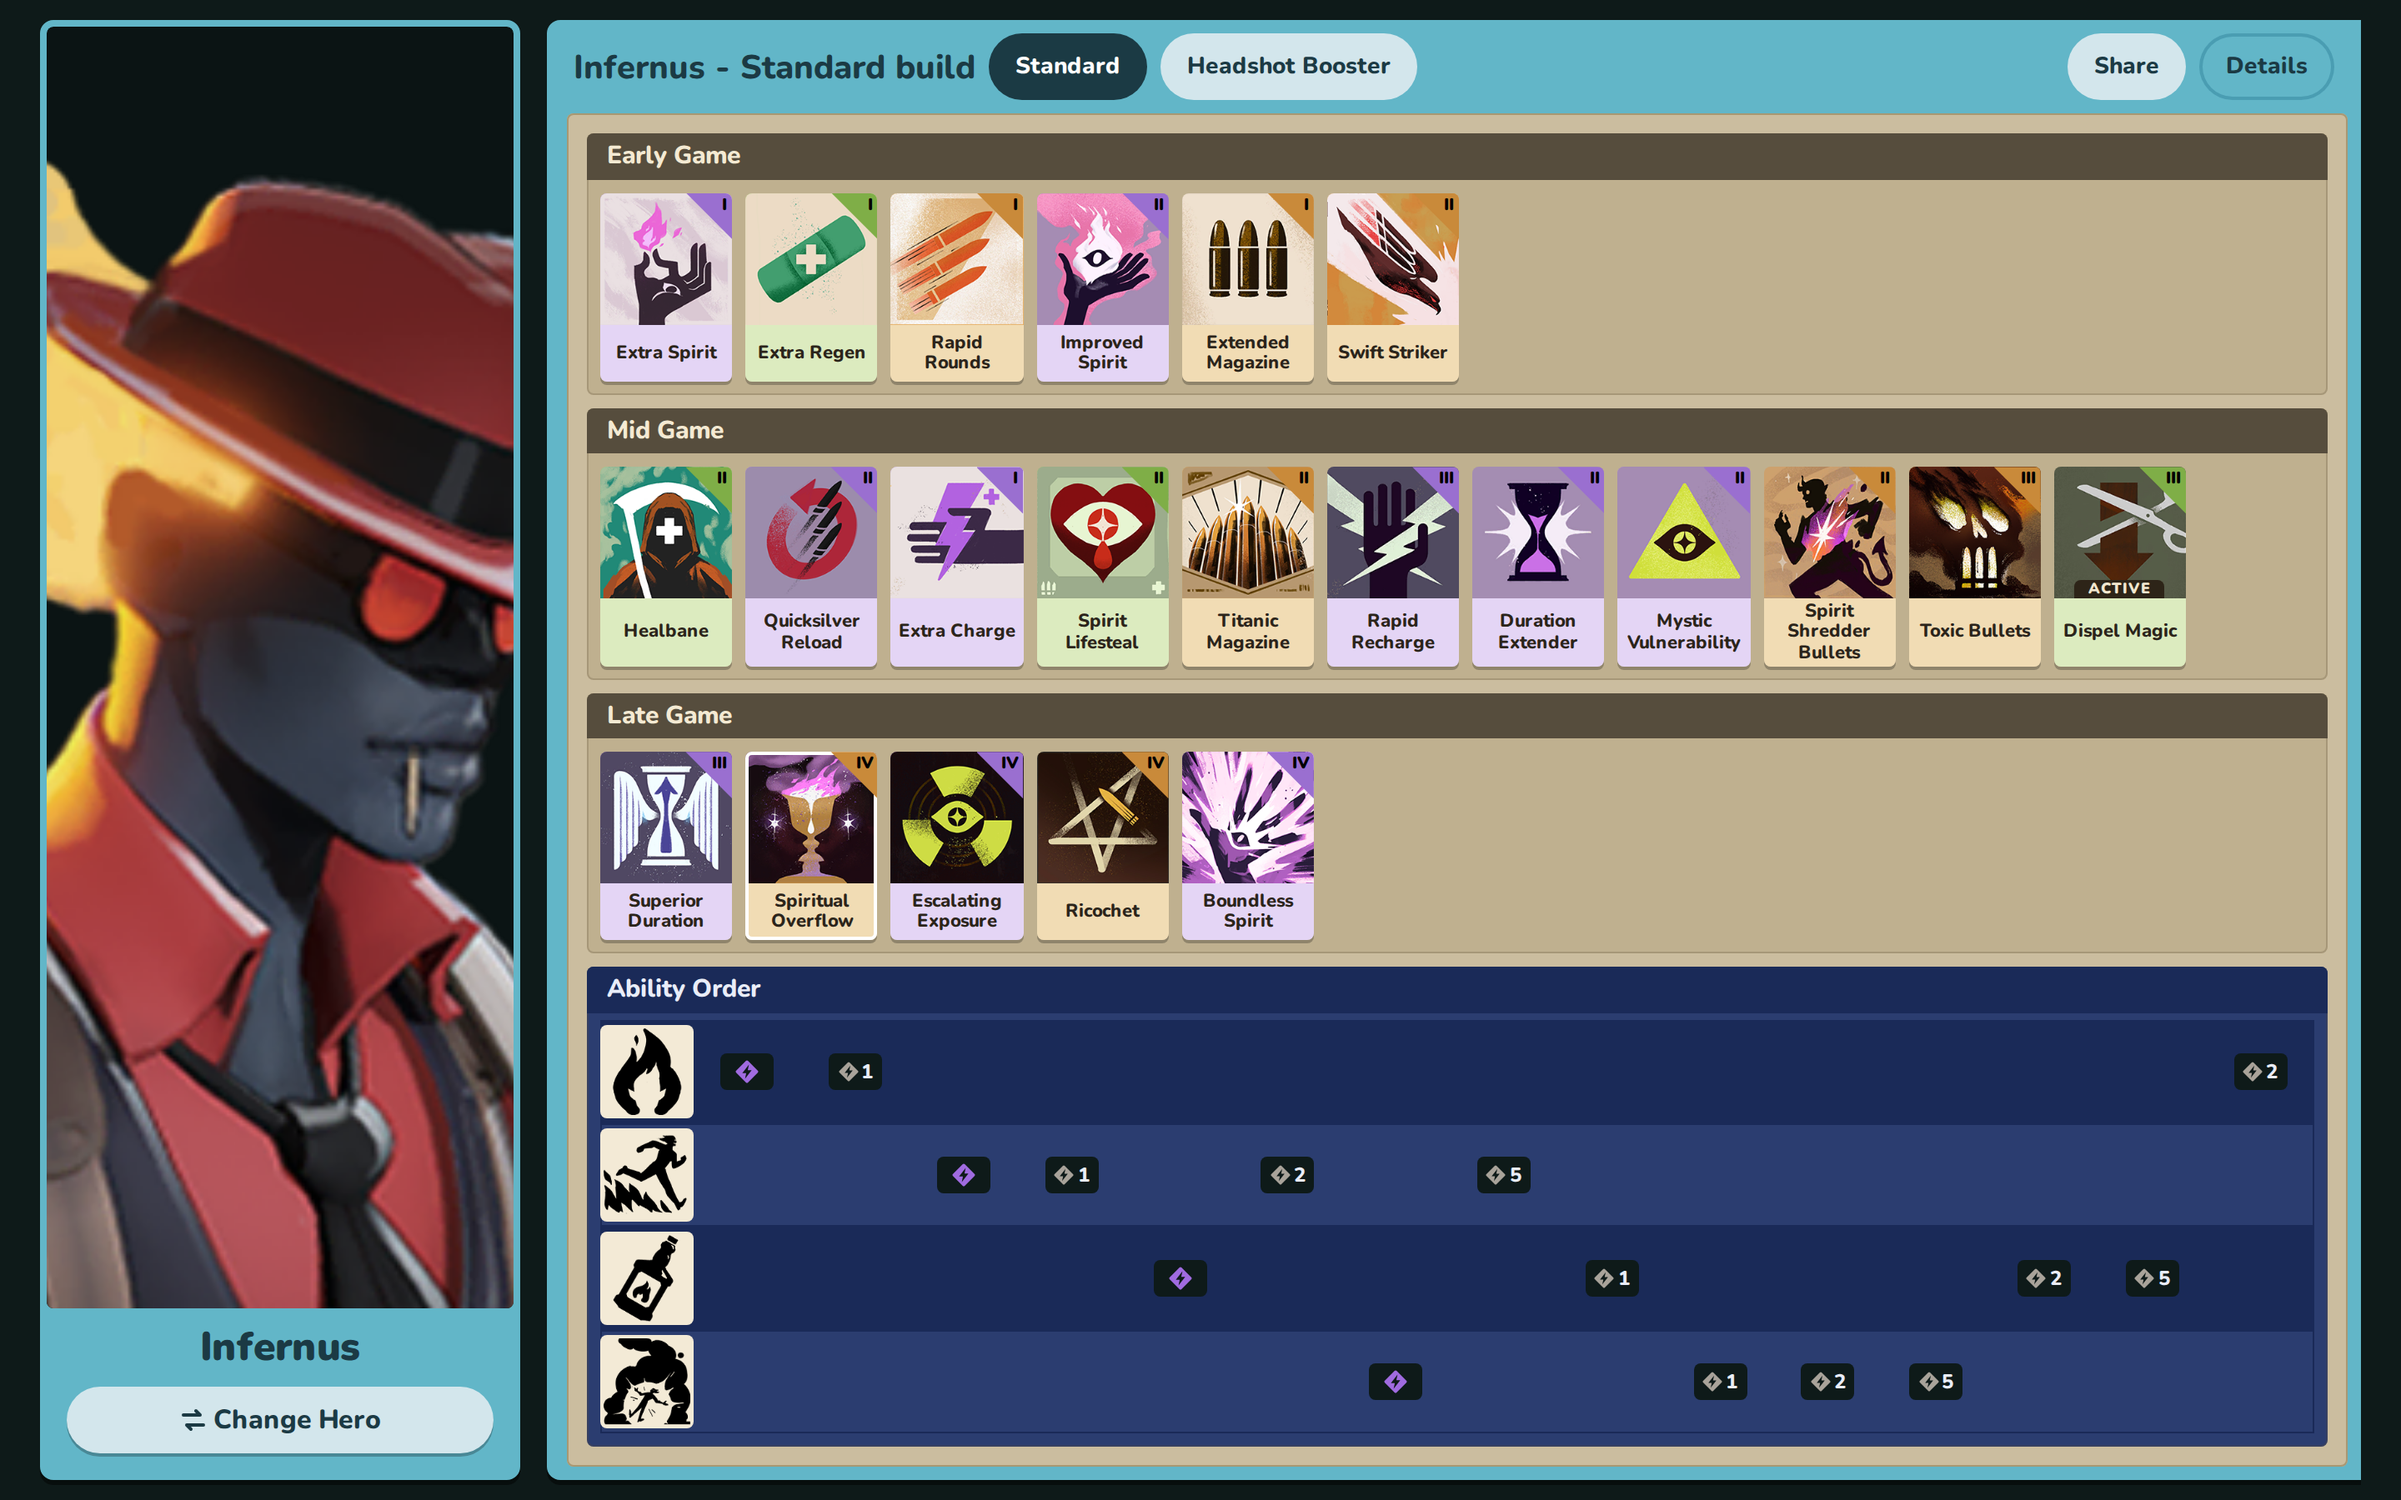
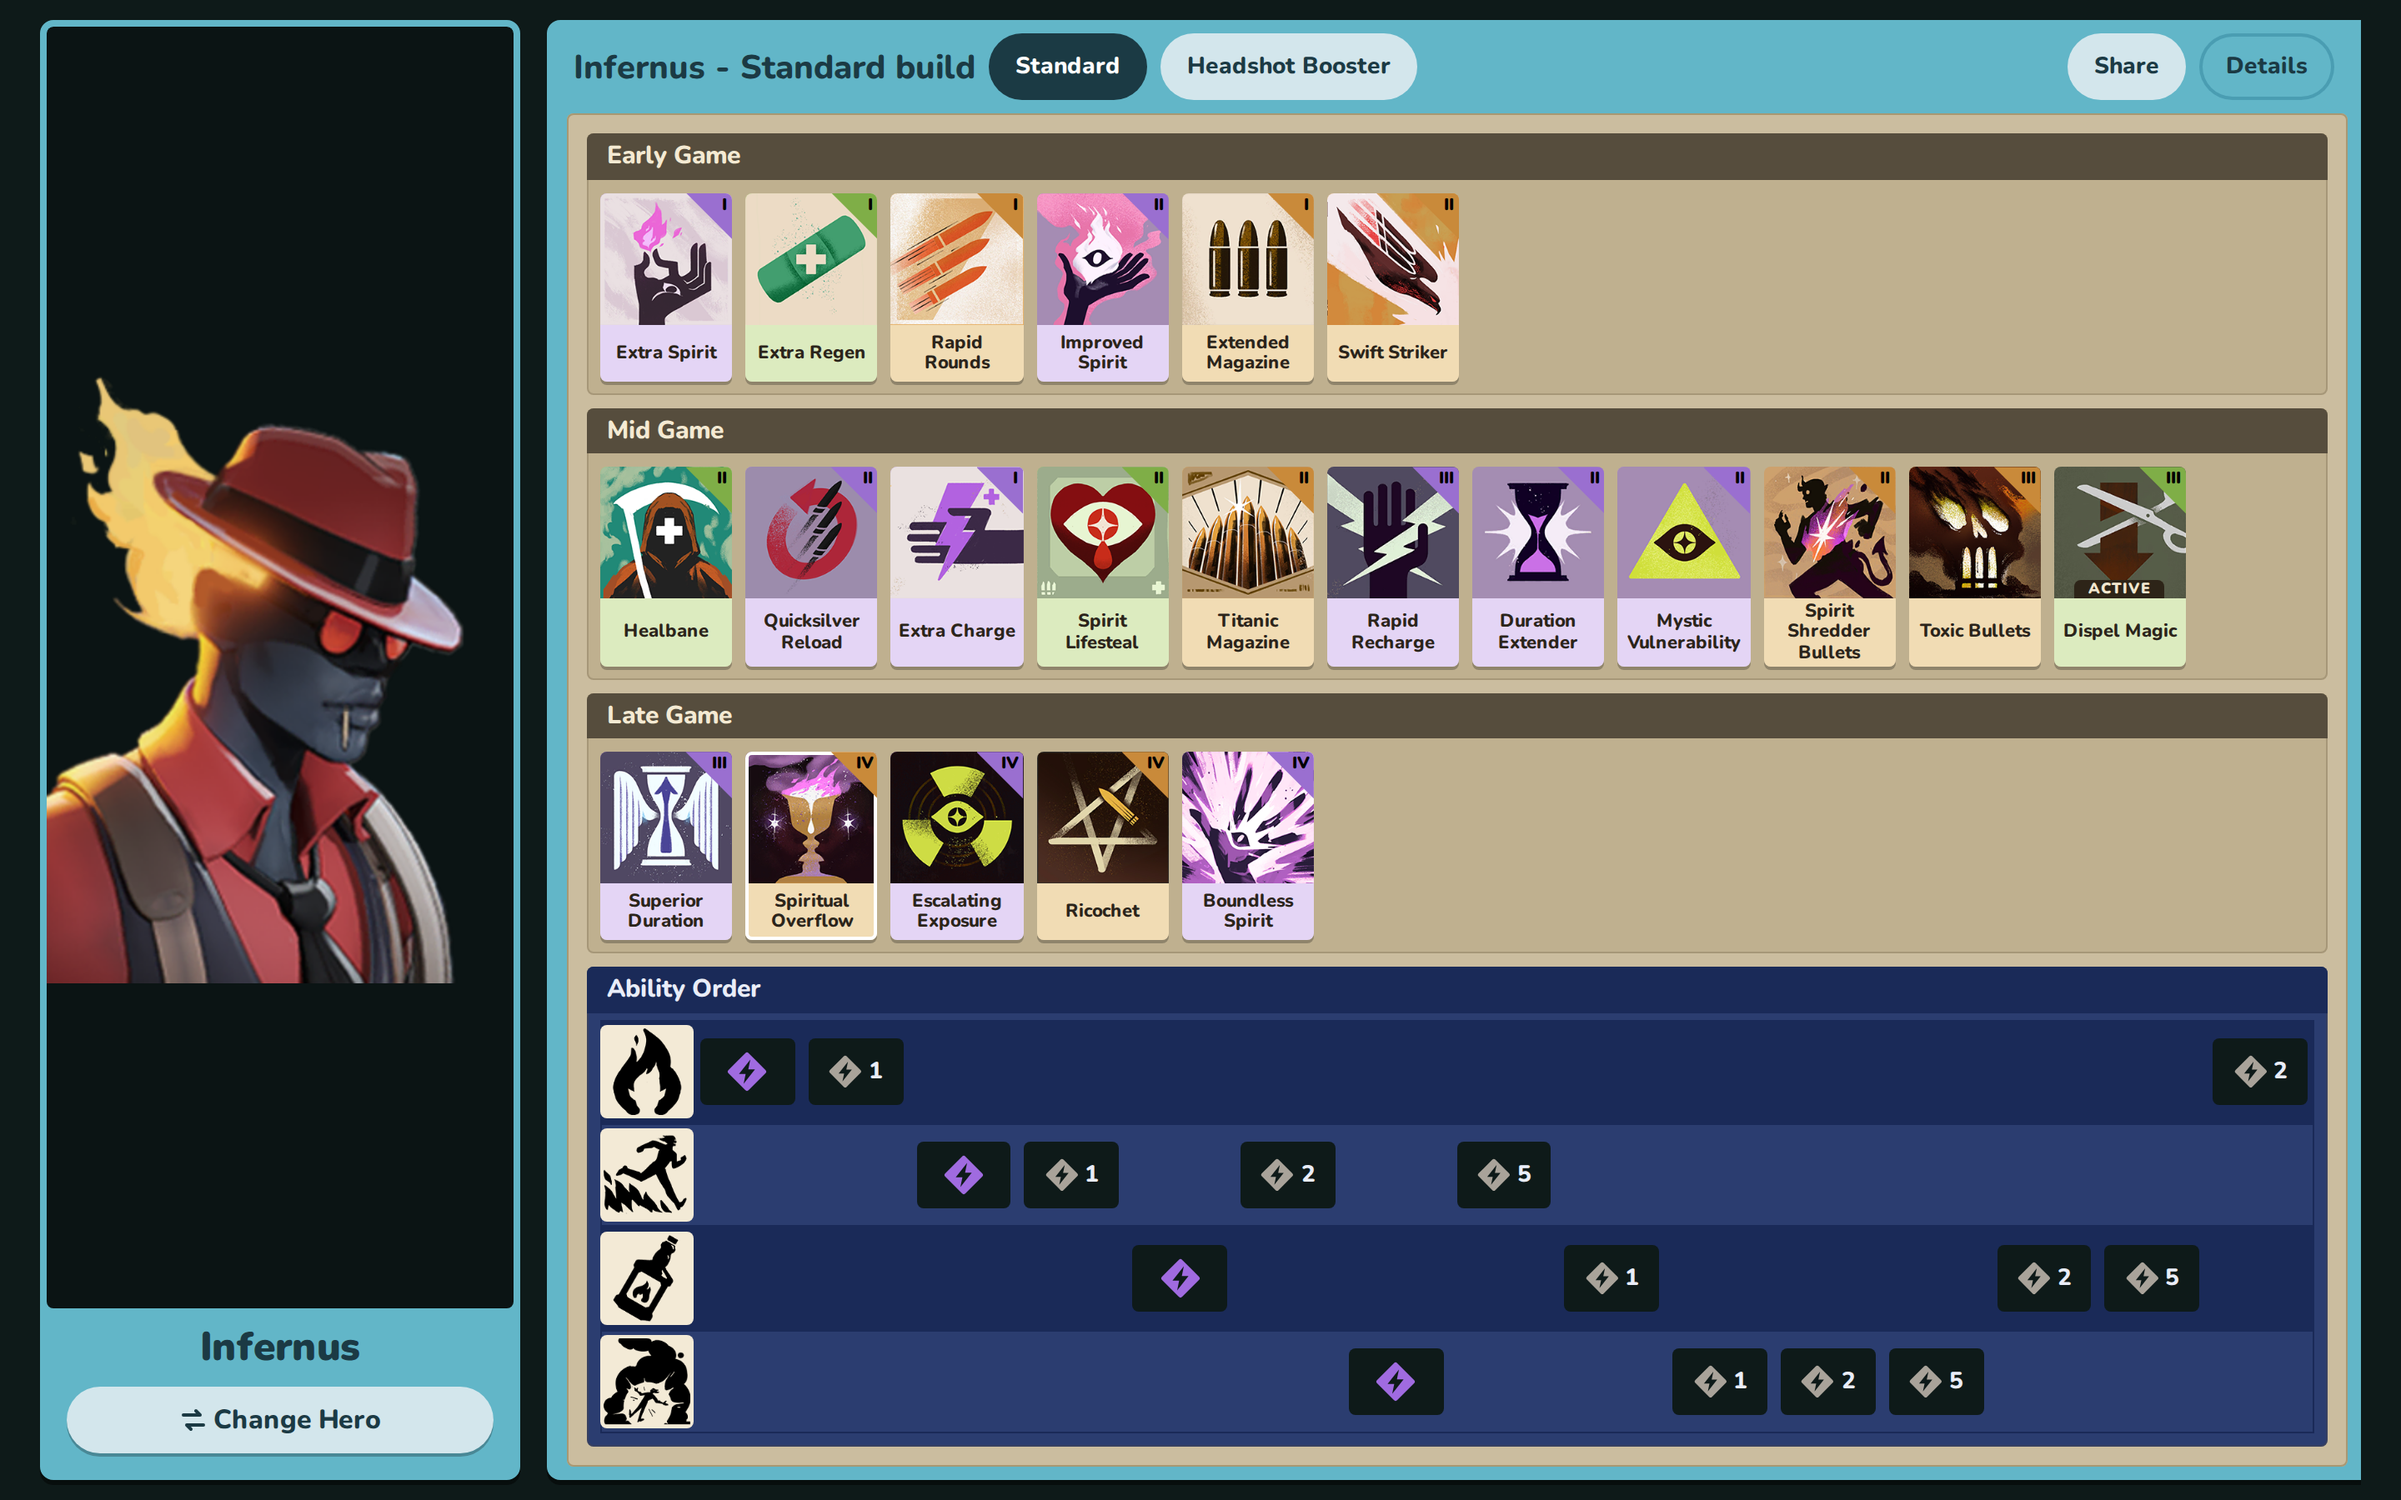
Larger desktop ability markers; show full hero portrait uncropped
Claude-Session: https://claude.ai/code/session_01AXQtYAJjJeEHyKDHjpHdWi

diff --git a/src/index.css b/src/index.css
@@ -815,8 +815,8 @@ button.tile:hover {
     width: 100%;
     flex: 1 1 0;
     min-height: 0;
-    object-fit: cover;
-    object-position: 50% 0;
+    object-fit: contain;
+    object-position: 50% 50%;
     background: var(--avatar-bg);
     border-radius: var(--radius-sm);
   }
@@ -856,6 +856,22 @@ button.tile:hover {
     width: var(--ap-icon);
     height: var(--ap-icon);
     justify-self: center;
+  }
+  .ap-mark {
+    height: clamp(28px, 16cqh, 52px);
+    min-width: 0;
+    width: calc(100% - 8px);
+    font-size: clamp(14px, 4.5cqh, 20px);
+    gap: 4px;
+    padding: 0;
+  }
+  .ap-glyph {
+    width: clamp(12px, 8cqh, 20px);
+    height: clamp(12px, 8cqh, 20px);
+  }
+  .ap-glyph.unlock-glyph {
+    width: clamp(14px, 10cqh, 24px);
+    height: clamp(14px, 10cqh, 24px);
   }
   .hero-avatar {
     display: none;
